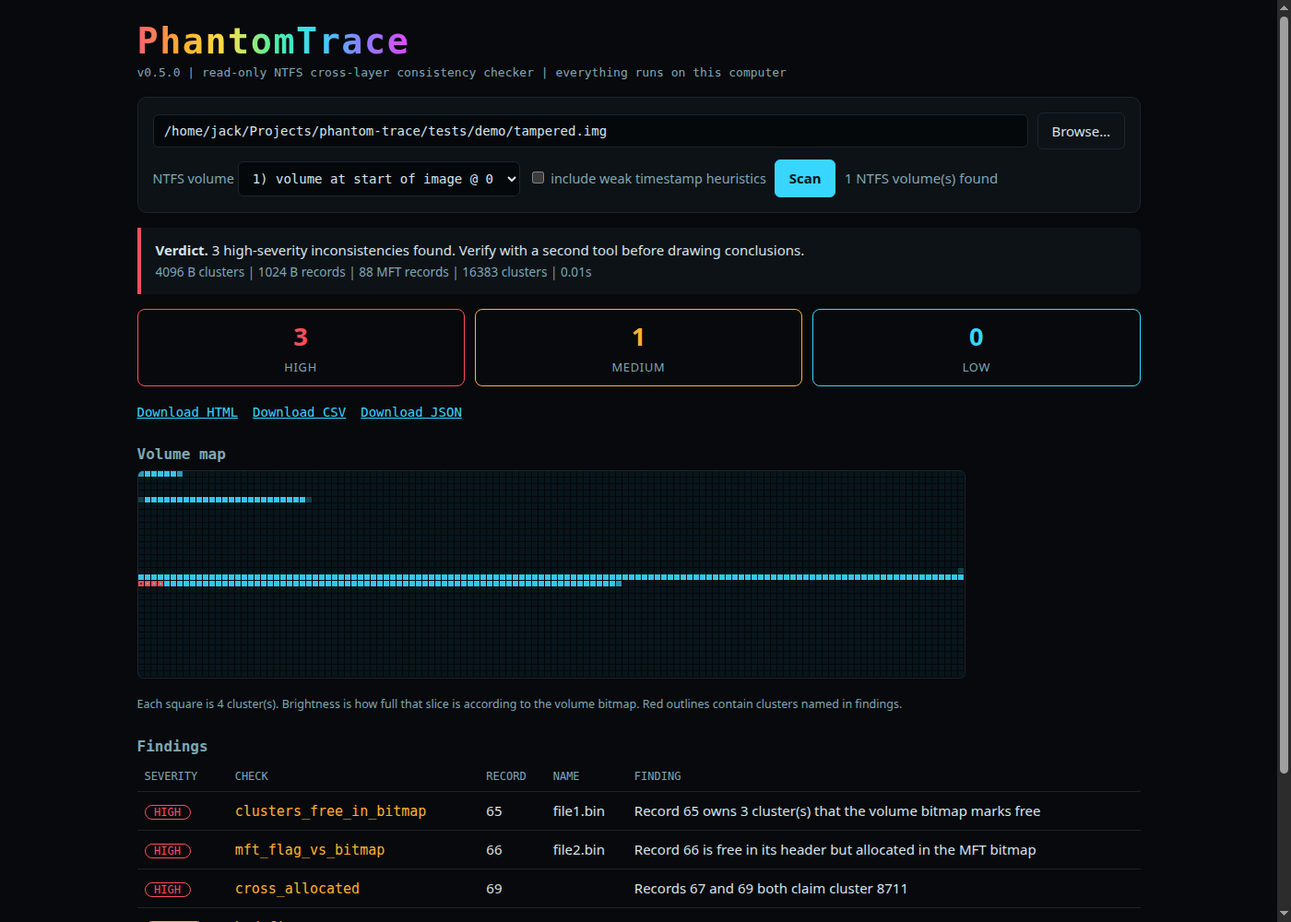
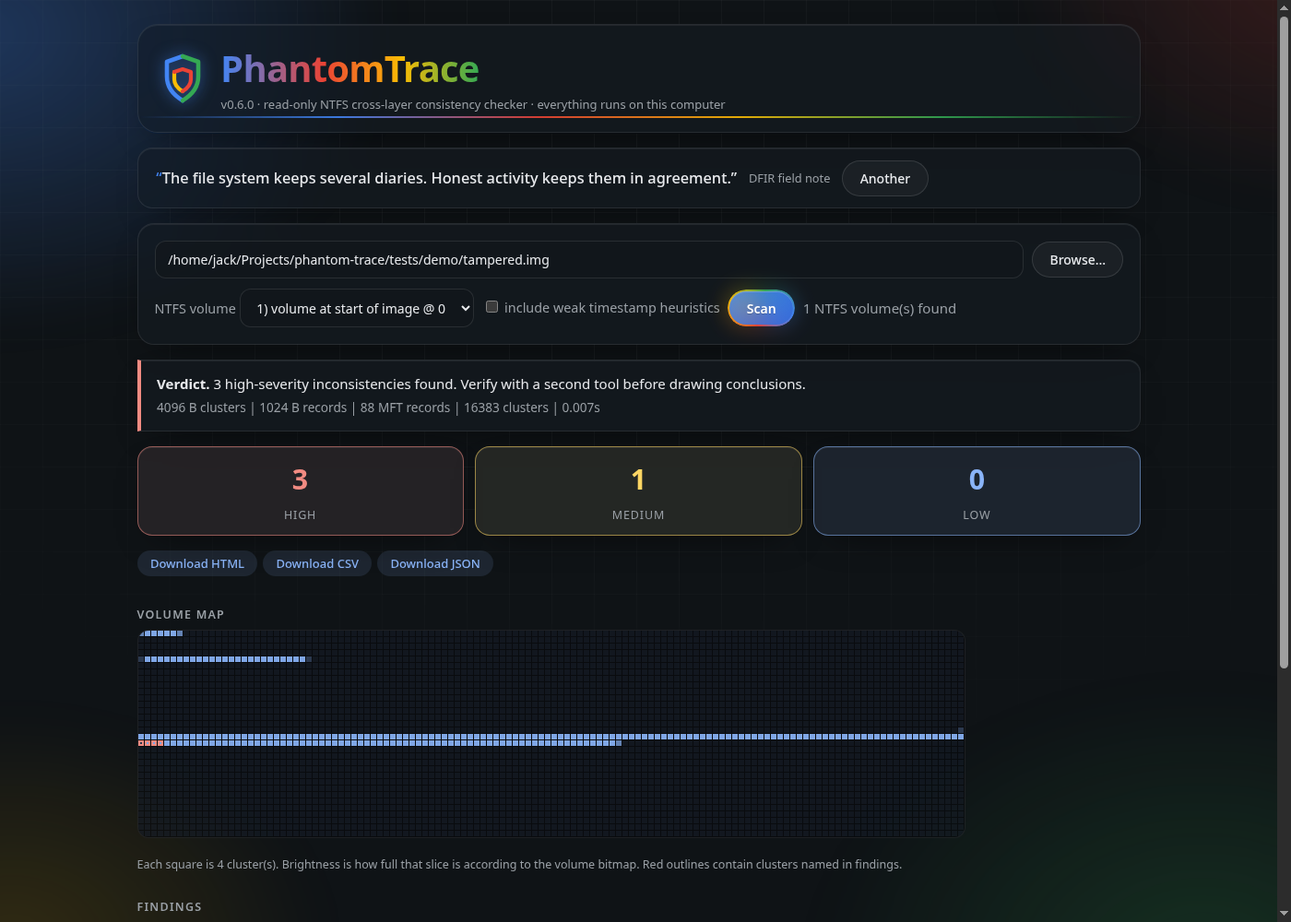
v0.6.1: new look for the GUI and HTML report

diff --git a/phantom_trace.py b/phantom_trace.py
@@ -25,7 +25,7 @@ import time
 from datetime import datetime, timedelta
 from dataclasses import dataclass, field
 
-__version__ = "0.6.0"
+__version__ = "0.6.1"
 __author__ = "Jack Sessions"
 __license__ = "MIT"
 __url__ = "https://github.com/JackSessions/PhantomTrace"
@@ -571,33 +571,88 @@ def cluster_map(fs: Ntfs, findings: list[Finding], cols: int = 128, rows: int = 
     return {"cols": cols, "per": per, "cells": n, "frac": frac, "flag": flag}
 
 
+SHIELD_SVG = ('<svg class="shield" viewBox="0 0 48 56" aria-hidden="true"><path d="M24 4 7 10v16c0 12 7 20 17 26" fill="none" stroke="#4285f4" stroke-width="4.6" stroke-linecap="round" stroke-linejoin="round"/>'
+              '<path d="M24 4l17 6v16c0 12-7 20-17 26" fill="none" stroke="#34a853" stroke-width="4.6" stroke-linecap="round" stroke-linejoin="round"/>'
+              '<path d="M24 42c-5-3-9-7-9-13V21" fill="none" stroke="#fbbc04" stroke-width="4.2" stroke-linecap="round" stroke-linejoin="round"/>'
+              '<path d="M15 21l9-3 9 3v8c0 6-4 10-9 13" fill="none" stroke="#ea4335" stroke-width="4.2" stroke-linecap="round" stroke-linejoin="round"/></svg>')
+
+# One design system for the GUI and the HTML report: frosted glass over a night-security backdrop, Google colours.
+DESIGN_CSS = r"""
+:root{color-scheme:dark;--bg:#0f1316;--panel:#171c20;--line:#2a3238;--text:#e8eaed;--mut:#9aa0a6;--soft:#bdc1c6;--cy:#8ab4f8;--am:#fdd663;--red:#f28b82;--grn:#81c995;--gb:#4285f4;--gr:#ea4335;--gy:#fbbc04;--gg:#34a853;
+--sans:"Google Sans","Product Sans","Space Grotesk",Inter,"Segoe UI",Roboto,"Helvetica Neue",system-ui,sans-serif;--mono:"JetBrains Mono","Roboto Mono",ui-monospace,SFMono-Regular,Menlo,Consolas,monospace}
+@property --ang{syntax:"<angle>";initial-value:0deg;inherits:false}
+@keyframes spin{to{--ang:360deg}}@keyframes drift{to{transform:translate3d(3%,2.5%,0) scale(1.1)}}
+@keyframes scan{0%{top:-4%;opacity:0}8%{opacity:.9}92%{opacity:.9}100%{top:104%;opacity:0}}
+@keyframes rise{from{opacity:0;transform:translateY(8px)}to{opacity:1;transform:none}}
+@keyframes shieldglow{0%,100%{filter:drop-shadow(0 0 8px rgba(66,133,244,.6))}33%{filter:drop-shadow(0 0 10px rgba(234,67,53,.55))}66%{filter:drop-shadow(0 0 10px rgba(251,188,4,.5))}}
+*{box-sizing:border-box}
+body{margin:0;background:var(--bg);color:var(--text);font:15px/1.6 var(--sans);position:relative;min-height:100vh;-webkit-font-smoothing:antialiased}
+body::before{content:"";position:fixed;inset:-18%;z-index:-2;pointer-events:none;filter:blur(24px);animation:drift 32s ease-in-out infinite alternate;
+background:radial-gradient(34% 34% at 12% 16%,rgba(66,133,244,.32),transparent 70%),radial-gradient(28% 28% at 90% 10%,rgba(234,67,53,.20),transparent 70%),radial-gradient(32% 32% at 82% 90%,rgba(52,168,83,.20),transparent 70%),radial-gradient(26% 26% at 14% 88%,rgba(251,188,4,.15),transparent 70%)}
+body::after{content:"";position:fixed;inset:0;z-index:-1;pointer-events:none;background-image:linear-gradient(rgba(255,255,255,.04) 1px,transparent 1px),linear-gradient(90deg,rgba(255,255,255,.04) 1px,transparent 1px);background-size:46px 46px;-webkit-mask-image:radial-gradient(75% 65% at 50% 25%,#000 25%,transparent 100%);mask-image:radial-gradient(75% 65% at 50% 25%,#000 25%,transparent 100%)}
+main{max-width:70rem;margin:0 auto;padding:1.6rem 1rem 3rem}
+.panel,.head,.verdict,.tile,.stat,.quote,.box{background:color-mix(in oklab,var(--panel) 58%,transparent);-webkit-backdrop-filter:blur(18px) saturate(1.5);backdrop-filter:blur(18px) saturate(1.5);border:1px solid rgba(255,255,255,.09);box-shadow:inset 0 1px 0 rgba(255,255,255,.07),0 14px 40px -22px #000c}
+.panel{border-radius:18px;padding:1.1rem;animation:rise .35s both}
+.head{position:relative;overflow:hidden;display:flex;gap:1.1rem;align-items:center;border-radius:22px;padding:1.2rem 1.5rem;margin-bottom:1rem;animation:rise .5s both}
+.head>*{position:relative;z-index:1}.head::after{content:"";position:absolute;z-index:0;left:0;right:0;height:2px;top:-4%;background:linear-gradient(90deg,transparent,#4285f4,#ea4335,#fbbc04,#34a853,transparent);animation:scan 7s linear infinite;pointer-events:none}
+.shield{width:3rem;height:3.5rem;flex:none;animation:shieldglow 6s ease-in-out infinite}
+h1{margin:0;font:700 clamp(1.7rem,4vw,2.5rem) var(--sans);letter-spacing:-.02em;background:linear-gradient(90deg,#4285f4,#ea4335 40%,#fbbc04 70%,#34a853);-webkit-background-clip:text;background-clip:text;color:transparent;display:inline-block}
+.sub,.meta{color:var(--mut);font-size:13px;margin:.15rem 0 0}.meta{font-family:var(--mono);margin:.4rem 0 1.2rem}
+.quote{margin:0 0 1rem;padding:.8rem 1.2rem;border-radius:16px;display:flex;align-items:center;gap:.8rem;flex-wrap:wrap}.quote q{font-size:1.02rem;font-weight:500;quotes:"\201C" "\201D"}.quote q::before{color:#4285f4}.quote span{color:var(--mut);font-size:.8rem}
+.row{display:flex;gap:.6rem;flex-wrap:wrap;align-items:center}.row+.row{margin-top:.7rem}
+input[type=text],select{background:color-mix(in oklab,#12171b 66%,transparent);color:var(--text);border:1px solid rgba(255,255,255,.1);border-radius:12px;padding:.6rem .85rem;font:14px/1.4 var(--sans);transition:border-color .15s,box-shadow .15s}
+input[type=text]{flex:1 1 20rem}input:focus,select:focus{outline:none;border-color:var(--cy);box-shadow:0 0 0 3px rgba(138,180,248,.22)}
+label{color:var(--mut);font-size:.9rem}
+/* rainbow glowing ring buttons */
+button{position:relative;isolation:isolate;background:rgba(255,255,255,.04);color:var(--text);border:1px solid rgba(255,255,255,.12);border-radius:999px;padding:.55rem 1.15rem;font:500 14px var(--sans);cursor:pointer;transition:background .15s,transform .06s,color .15s}
+button::before{content:"";position:absolute;inset:-2px;border-radius:inherit;padding:2px;background:conic-gradient(from var(--ang),#4285f4,#ea4335,#fbbc04,#34a853,#4285f4);-webkit-mask:linear-gradient(#000 0 0) content-box,linear-gradient(#000 0 0);-webkit-mask-composite:xor;mask-composite:exclude;opacity:0;transition:opacity .28s;animation:spin 4.5s linear infinite;pointer-events:none}
+button::after{content:"";position:absolute;inset:-5px;border-radius:inherit;background:conic-gradient(from var(--ang),#4285f4,#ea4335,#fbbc04,#34a853,#4285f4);filter:blur(11px);opacity:0;transition:opacity .28s;animation:spin 4.5s linear infinite;pointer-events:none;z-index:-1}
+button:hover,button:focus-visible{background:rgba(255,255,255,.09);outline:none}button:hover::before,button:focus-visible::before{opacity:1}button:hover::after,button:focus-visible::after{opacity:.32}button:active{transform:translateY(1px)}
+button.go{background:linear-gradient(135deg,#4285f4,#3367d6);color:#fff;border-color:transparent;font-weight:600;text-shadow:0 1px 0 #0003;box-shadow:inset 0 1px 0 #fff4}
+button.go::before{opacity:.95}button.go::after{opacity:.26}button.go:hover{background:linear-gradient(135deg,#5a95f5,#3b78e7);transform:translateY(-1px)}button.go:hover::after{opacity:.5}button:disabled{opacity:.55;cursor:default}
+.bar{height:6px;background:rgba(255,255,255,.07);border-radius:3px;overflow:hidden;margin-top:.9rem;display:none}.bar i{display:block;height:100%;width:0;background:linear-gradient(90deg,#4285f4,#ea4335,#fbbc04,#34a853);transition:width .15s}
+.verdict{border-left:4px solid var(--grn);border-radius:0 14px 14px 0;padding:.85rem 1.1rem;margin:1rem 0}.verdict.bad{border-left-color:var(--red)}.verdict.med{border-left-color:var(--am)}.verdict.low{border-left-color:var(--cy)}
+.tiles,.stats{display:flex;gap:.8rem;margin:.2rem 0 1rem}.tile,.stat{flex:1;border-radius:16px;padding:.7rem;text-align:center;border-color:color-mix(in oklab,var(--c) 55%,transparent);background:color-mix(in oklab,var(--c) 9%,color-mix(in oklab,var(--panel) 58%,transparent))}
+.tile b,.stat b{display:block;font-size:1.9rem;color:var(--c)}.tile span,.stat span{color:var(--mut);font-size:.78rem;text-transform:uppercase;letter-spacing:.07em}
+table{width:100%;border-collapse:collapse}th,td{text-align:left;padding:.6rem .55rem;border-bottom:1px solid rgba(255,255,255,.08);vertical-align:top}th{font:600 11px var(--sans);letter-spacing:.07em;color:var(--mut);text-transform:uppercase}
+tr.f{cursor:pointer;transition:background .15s}tr.f:hover{background:rgba(255,255,255,.04)}
+.chip{display:inline-block;border:1px solid var(--c);color:var(--c);border-radius:999px;padding:0 .65rem;font:600 11px var(--sans);text-transform:uppercase;letter-spacing:.05em}
+code{color:var(--am);font-family:var(--mono);font-size:.9em}.why{color:var(--mut);font-size:.85rem;margin-top:.3rem}.f .why{display:none}tr.open .why{display:block}
+canvas{display:block;max-width:100%;image-rendering:pixelated;border:1px solid rgba(255,255,255,.09);border-radius:12px;background:rgba(5,7,10,.6)}
+h2{font:600 .78rem var(--sans);letter-spacing:.1em;text-transform:uppercase;color:var(--mut);margin:1.7rem 0 .5rem}
+.err{border-left:4px solid var(--red);background:rgba(43,23,22,.7);padding:.75rem 1.1rem;border-radius:0 14px 14px 0;margin-top:1rem;display:none}
+.dl a{color:var(--cy);font:500 13px var(--sans);text-decoration:none;display:inline-block;padding:.32rem .9rem;margin:0 .35rem .35rem 0;border-radius:999px;background:rgba(138,180,248,.12)}.dl a:hover{background:rgba(138,180,248,.24)}
+small,.mut{color:var(--mut)}a{color:var(--cy)}
+#modal{position:fixed;inset:0;background:rgba(0,0,0,.65);display:none;place-items:center;z-index:9}#modal .box{width:min(42rem,94vw);max-height:80vh;display:flex;flex-direction:column;border-radius:20px;padding:1.1rem}
+#list{overflow:auto;border:1px solid rgba(255,255,255,.09);border-radius:12px;margin:.6rem 0}#list div{padding:.4rem .7rem;cursor:pointer;display:flex;justify-content:space-between;gap:1rem;font:13px var(--mono)}#list div:hover{background:rgba(255,255,255,.06)}
+footer{margin-top:2.5rem;color:var(--mut);font-size:.85rem}
+@media(max-width:40rem){.tiles,.stats{flex-direction:column}.head{padding:1rem}}
+@media(prefers-reduced-motion:reduce){*,*::before,*::after{animation:none!important;transition:none!important}}
+"""
+
+
 def report_html(info: dict, findings: list[Finding], target: str, cm: dict) -> str:
     e = html.escape
     color, msg = verdict(findings)
-    chip = {"high": "#ff4d5e", "medium": "#ffb02e", "low": "#38d6ff"}
+    chip = {"high": "#f28b82", "medium": "#fdd663", "low": "#8ab4f8"}
     rows = "".join(
         f'<tr><td><span class="chip" style="--c:{chip[f.severity]}">{f.severity}</span></td><td><code>{e(f.check)}</code></td>'
         f'<td>{"" if f.record is None else f.record}</td><td>{e(f.name)}</td><td>{e(f.message)}<div class="why">{e(WHY[f.check])}</div></td></tr>'
         for f in sorted(findings, key=lambda x: ("high", "medium", "low").index(x.severity)))
     counts = "".join(f'<div class="stat" style="--c:{chip[s]}"><b>{sum(f.severity == s for f in findings)}</b><span>{s}</span></div>' for s in ("high", "medium", "low"))
-    verdict_col = {"red": "#ff4d5e", "yellow": "#ffb02e", "cyan": "#38d6ff", "green": "#4af0a2"}[color]
+    verdict_col = {"red": "#f28b82", "yellow": "#fdd663", "cyan": "#8ab4f8", "green": "#81c995"}[color]
     return f"""<!doctype html><html lang="en"><meta charset="utf-8"><meta name="viewport" content="width=device-width,initial-scale=1">
-<title>PhantomTrace report</title><style>
-:root{{color-scheme:dark}}body{{margin:0;background:#07090c;color:#d7e3ea;font:15px/1.5 system-ui,sans-serif}}main{{max-width:64rem;margin:0 auto;padding:2rem 1rem 4rem}}
-h2{{font:600 1rem ui-monospace,monospace;color:#7fa7b5;margin:1.6rem 0 .4rem}}canvas{{display:block;max-width:100%;image-rendering:pixelated;border:1px solid #1c252d;border-radius:6px;background:#05070a}}h1{{font:700 1.6rem ui-monospace,monospace;letter-spacing:.04em;margin:0;background:linear-gradient(90deg,#ff5f6d,#ffb02e,#ffe14a,#4af0a2,#38d6ff,#8b7bff,#e04aff);-webkit-background-clip:text;background-clip:text;color:transparent;display:inline-block}}small,.why{{color:#7fa7b5}}.why{{font-size:.82rem;margin-top:.3rem}}
-.meta{{margin:.4rem 0 1.4rem;font:13px ui-monospace,monospace;color:#7fa7b5}}.verdict{{border-left:4px solid {verdict_col};padding:.7rem 1rem;background:#0c1116;margin:1rem 0}}
-.stats{{display:flex;gap:.8rem;margin:1rem 0}}.stat{{flex:1;border:1px solid var(--c);border-radius:6px;padding:.6rem;text-align:center}}.stat b{{display:block;font-size:1.6rem;color:var(--c)}}
-table{{width:100%;border-collapse:collapse;margin-top:1rem}}td,th{{text-align:left;padding:.55rem .5rem;border-bottom:1px solid #1c252d;vertical-align:top}}th{{font:12px ui-monospace,monospace;color:#7fa7b5;text-transform:uppercase}}
-.chip{{display:inline-block;border:1px solid var(--c);color:var(--c);border-radius:999px;padding:0 .6rem;font:12px ui-monospace,monospace;text-transform:uppercase}}code{{color:#ffb02e}}
-</style><main><h1>PhantomTrace</h1><div class="meta">v{__version__} | {e(target)} | {info['cluster_size']} B clusters, {info['record_size']} B records, {info['records']} MFT records, {info['clusters']} clusters</div>
+<title>PhantomTrace report</title><style>{DESIGN_CSS}.verdict{{border-left-color:{verdict_col}}}</style>
+<main><div class="head">{SHIELD_SVG}<div><h1>PhantomTrace</h1><div class="sub">Read-only NTFS cross-layer consistency report</div></div></div>
+<div class="meta">v{__version__} | {e(target)} | {info['cluster_size']} B clusters, {info['record_size']} B records, {info['records']} MFT records, {info['clusters']} clusters</div>
 <div class="verdict"><b>Verdict.</b> {e(msg)}</div><div class="stats">{counts}</div>
 <h2>Volume map</h2><canvas id="map" height="10"></canvas>
 <p><small>Each square is a slice of the volume (<span id="per"></span> clusters). Brightness is how full that slice is according to the volume bitmap. Red outlines contain clusters named in findings.</small></p>
-<table><tr><th>Severity</th><th>Check</th><th>Record</th><th>Name</th><th>Finding</th></tr>{rows or '<tr><td colspan="5">No findings.</td></tr>'}</table>
+<h2>Findings</h2><table><tr><th>Severity</th><th>Check</th><th>Record</th><th>Name</th><th>Finding</th></tr>{rows or '<tr><td colspan="5">No findings.</td></tr>'}</table>
 <script>const M={json.dumps(cm)};const cv=document.getElementById('map'),cols=M.cols,sz=Math.floor(Math.min(1000,document.querySelector('main').clientWidth)/cols),rows=Math.ceil(M.cells/cols);
 cv.width=sz*cols;cv.height=sz*rows;const g=cv.getContext('2d');document.getElementById('per').textContent=M.per;
-for(let i=0;i<M.cells;i++){{const x=(i%cols)*sz,y=Math.floor(i/cols)*sz,f=M.frac[i]/100;g.fillStyle=`rgba(56,214,255,${{(0.07+0.85*f).toFixed(2)}})`;g.fillRect(x,y,sz-1,sz-1);if(M.flag[i]){{g.strokeStyle='#ff4d5e';g.lineWidth=2;g.strokeRect(x+1,y+1,sz-3,sz-3);}}}}</script>
-<p><small>Created by <a href="{__url__}" style="color:#38d6ff">Jack Sessions</a> (PhantomTrace v{__version__}, MIT licence). Findings are leads, not proof. Confirm with a second tool (for example The Sleuth Kit) before drawing conclusions.</small></p></main></html>"""
+for(let i=0;i<M.cells;i++){{const x=(i%cols)*sz,y=Math.floor(i/cols)*sz,f=M.frac[i]/100;g.fillStyle=`rgba(138,180,248,${{(0.07+0.85*f).toFixed(2)}})`;g.fillRect(x,y,sz-1,sz-1);if(M.flag[i]){{g.strokeStyle='#f28b82';g.lineWidth=2;g.strokeRect(x+1,y+1,sz-3,sz-3);}}}}</script>
+<footer>Created by <a href="{__url__}">Jack Sessions</a> (PhantomTrace v{__version__}, MIT licence). Findings are leads, not proof. Confirm with a second tool (for example The Sleuth Kit) before drawing conclusions.</footer></main></html>"""
 
 
 def main(argv=None) -> int:

diff --git a/phantom_trace_gui.py b/phantom_trace_gui.py
@@ -96,7 +96,7 @@ class Handler(BaseHTTPRequestHandler):
         if not self._guard(q):
             return
         if u.path == "/":
-            self._send(200, PAGE.replace("__VERSION__", pt.__version__).encode(), "text/html; charset=utf-8")
+            self._send(200, PAGE.replace("__DESIGN__", pt.DESIGN_CSS).replace("__SHIELD__", pt.SHIELD_SVG).replace("__VERSION__", pt.__version__).encode(), "text/html; charset=utf-8")
         elif u.path == "/api/ls":
             self._ls((q.get("path") or [""])[0])
         elif u.path == "/api/volumes":
@@ -206,35 +206,10 @@ def main(argv=None) -> int:
 
 PAGE = r"""<!doctype html><html lang="en"><meta charset="utf-8"><meta name="viewport" content="width=device-width,initial-scale=1">
 <title>PhantomTrace</title>
-<style>
-:root{color-scheme:dark;--bg:#07090c;--panel:#0d1217;--line:#1c252d;--text:#d7e3ea;--mut:#7fa7b5;--cy:#38d6ff;--am:#ffb02e;--red:#ff4d5e;--grn:#4af0a2}
-*{box-sizing:border-box}body{margin:0;background:var(--bg);color:var(--text);font:15px/1.5 system-ui,sans-serif}
-main{max-width:70rem;margin:0 auto;padding:1.4rem 1rem 3rem}
-h1{margin:0;font:800 clamp(1.6rem,4vw,2.4rem) ui-monospace,monospace;letter-spacing:.04em;background:linear-gradient(90deg,#ff5f6d,#ffb02e,#ffe14a,#4af0a2,#38d6ff,#8b7bff,#e04aff);-webkit-background-clip:text;background-clip:text;color:transparent;display:inline-block}
-.sub{color:var(--mut);font:13px ui-monospace,monospace;margin:.2rem 0 1.2rem}
-.panel{background:var(--panel);border:1px solid var(--line);border-radius:10px;padding:1rem}
-.row{display:flex;gap:.6rem;flex-wrap:wrap;align-items:center}.row+.row{margin-top:.7rem}
-input[type=text],select{background:#05080b;color:var(--text);border:1px solid var(--line);border-radius:6px;padding:.55rem .7rem;font:14px ui-monospace,monospace}
-input[type=text]{flex:1 1 20rem}
-button{background:transparent;color:var(--text);border:1px solid var(--line);border-radius:6px;padding:.5rem .9rem;font:inherit;cursor:pointer}
-button:hover{border-color:var(--cy);color:var(--cy)}button.go{background:var(--cy);color:#03141a;border-color:var(--cy);font-weight:700}button.go:hover{color:#03141a;filter:brightness(1.1)}button:disabled{opacity:.5;cursor:default}
-label{color:var(--mut);font-size:.9rem}
-.bar{height:6px;background:#10181e;border-radius:3px;overflow:hidden;margin-top:.8rem;display:none}.bar i{display:block;height:100%;width:0;background:linear-gradient(90deg,#ff5f6d,#ffb02e,#4af0a2,#38d6ff,#e04aff);transition:width .15s}
-.verdict{border-left:4px solid var(--grn);background:var(--panel);padding:.8rem 1rem;margin:1rem 0;border-radius:0 8px 8px 0}.verdict.bad{border-color:var(--red)}.verdict.med{border-color:var(--am)}.verdict.low{border-color:var(--cy)}
-.tiles{display:flex;gap:.7rem;margin:.2rem 0 1rem}.tile{flex:1;border:1px solid var(--c);border-radius:8px;padding:.6rem;text-align:center}.tile b{display:block;font-size:1.7rem;color:var(--c)}.tile span{color:var(--mut);font-size:.8rem;text-transform:uppercase;letter-spacing:.06em}
-table{width:100%;border-collapse:collapse}th,td{text-align:left;padding:.55rem .5rem;border-bottom:1px solid var(--line);vertical-align:top}th{font:12px ui-monospace,monospace;color:var(--mut);text-transform:uppercase}
-tr.f{cursor:pointer}tr.f:hover{background:#0b1218}.chip{display:inline-block;border:1px solid var(--c);color:var(--c);border-radius:999px;padding:0 .6rem;font:12px ui-monospace,monospace;text-transform:uppercase}
-code{color:var(--am)}.why{color:var(--mut);font-size:.85rem;margin-top:.3rem;display:none}tr.open .why{display:block}
-canvas{display:block;max-width:100%;image-rendering:pixelated;border:1px solid var(--line);border-radius:6px;background:#05070a}
-h2{font:600 1rem ui-monospace,monospace;color:var(--mut);margin:1.6rem 0 .5rem}
-.err{border-left:4px solid var(--red);background:#1a0c10;padding:.7rem 1rem;border-radius:0 8px 8px 0;margin-top:1rem;display:none}
-.dl a{color:var(--cy);margin-right:1rem;font:14px ui-monospace,monospace}small,.mut{color:var(--mut)}
-#modal{position:fixed;inset:0;background:rgba(0,0,0,.7);display:none;place-items:center;z-index:9}#modal .box{width:min(42rem,94vw);max-height:80vh;display:flex;flex-direction:column}
-#list{overflow:auto;border:1px solid var(--line);border-radius:6px;margin:.6rem 0}#list div{padding:.35rem .6rem;cursor:pointer;display:flex;justify-content:space-between;gap:1rem;font:13px ui-monospace,monospace}#list div:hover{background:#0b1218}
-footer{margin-top:2.5rem;color:var(--mut);font-size:.85rem}footer a{color:var(--cy)}
-</style>
+<style>__DESIGN__</style>
 <main>
-<h1>PhantomTrace</h1><div class="sub">v__VERSION__ | read-only NTFS cross-layer consistency checker | everything runs on this computer</div>
+<div class="head">__SHIELD__<div><h1>PhantomTrace</h1><div class="sub">v__VERSION__ &middot; read-only NTFS cross-layer consistency checker &middot; everything runs on this computer</div></div></div>
+<div class="quote"><q id="qt"></q><span>DFIR field note</span><button id="qn" title="Another one">Another</button></div>
 <div class="panel">
   <div class="row"><input id="path" type="text" placeholder="Path to a raw NTFS image, disk image or device (e.g. /home/you/disk.img or \\.\C:)" spellcheck="false"><button id="browse">Browse…</button></div>
   <div class="row"><label>NTFS volume <select id="part"><option value="1">auto</option></select></label>
@@ -258,7 +233,8 @@ footer{margin-top:2.5rem;color:var(--mut);font-size:.85rem}footer a{color:var(--
 <script>
 const Q=new URLSearchParams(location.search),TOKEN=Q.get('token'),$=id=>document.getElementById(id),H={'X-PT-Token':TOKEN};
 const api=(u,o={})=>fetch(u,{...o,headers:{...H,...(o.headers||{})}}).then(r=>r.json());
-const COL={high:'#ff4d5e',medium:'#ffb02e',low:'#38d6ff'};let job=null,timer=null;
+const COL={high:'#f28b82',medium:'#fdd663',low:'#8ab4f8'};
+const QUOTES=['The file system keeps several diaries. Honest activity keeps them in agreement.','Free space is not always empty.','A deleted record is a story, not an absence.','Trust the layers that agree. Question the ones that do not.','Read-only first, always.','A finding is a lead. A second tool makes it a fact.','Structure is harder to fake than a timestamp.','Image first, analyse the copy.','Calm minds read better disks.','Every inconsistency has a cause. Find it before you name it.'];let qi=-1;function newQuote(){let i;do{i=Math.floor(Math.random()*QUOTES.length)}while(i===qi);qi=i;$('qt').textContent=QUOTES[i]}$('qn').onclick=newQuote;newQuote();let job=null,timer=null;
 const esc=s=>String(s).replace(/[&<>"]/g,c=>({'&':'&amp;','<':'&lt;','>':'&gt;','"':'&quot;'}[c]));
 async function volumes(){const p=$('path').value.trim();const sel=$('part');sel.innerHTML='<option value="1">auto</option>';if(!p)return;
   const r=await api('/api/volumes?path='+encodeURIComponent(p));
@@ -286,7 +262,7 @@ function render(s){const f=s.findings,n={high:0,medium:0,low:0};f.forEach(x=>n[x
   document.querySelectorAll('tr.f').forEach(r=>r.onclick=()=>r.classList.toggle('open'));
   $('out').style.display='block';
   const M=s.cmap,cv=$('map');if(M&&M.cells){const cols=M.cols,sz=Math.max(3,Math.floor(Math.min(1000,cv.parentElement.clientWidth)/cols)),rws=Math.ceil(M.cells/cols);cv.width=sz*cols;cv.height=sz*rws;const g=cv.getContext('2d');
-    for(let i=0;i<M.cells;i++){const x=(i%cols)*sz,y=Math.floor(i/cols)*sz;g.fillStyle=`rgba(56,214,255,${(0.07+0.85*M.frac[i]/100).toFixed(2)})`;g.fillRect(x,y,sz-1,sz-1);if(M.flag[i]){g.strokeStyle='#ff4d5e';g.lineWidth=2;g.strokeRect(x+1,y+1,sz-3,sz-3)}}
+    for(let i=0;i<M.cells;i++){const x=(i%cols)*sz,y=Math.floor(i/cols)*sz;g.fillStyle=`rgba(138,180,248,${(0.07+0.85*M.frac[i]/100).toFixed(2)})`;g.fillRect(x,y,sz-1,sz-1);if(M.flag[i]){g.strokeStyle='#f28b82';g.lineWidth=2;g.strokeRect(x+1,y+1,sz-3,sz-3)}}
     $('mapnote').textContent=`Each square is ${M.per} cluster(s). Brightness is how full that slice is according to the volume bitmap. Red outlines contain clusters named in findings.`}
 }
 let cwd='';async function ls(p){const r=await api('/api/ls?path='+encodeURIComponent(p||''));cwd=r.path;$('cwd').textContent=r.path;

diff --git a/tests/test_phantom_trace.py b/tests/test_phantom_trace.py
@@ -233,3 +233,35 @@ class RunListTests(unittest.TestCase):
 
 if __name__ == "__main__":
     unittest.main()
+
+
+class DesignTests(unittest.TestCase):
+    """The GUI and the HTML report share one design system; these tests need no NTFS tools."""
+
+    def test_report_uses_the_shared_design_and_google_colours(self):
+        import phantom_trace as pt
+        info = {"cluster_size": 4096, "record_size": 1024, "records": 1, "clusters": 1}
+        cm = {"cols": 1, "cells": 1, "frac": [0], "flag": [0], "per": 1}
+        f = pt.Finding("mft_flag_vs_bitmap", "high", 1, "a.txt", "x") if hasattr(pt, "Finding") else None
+        page = pt.report_html(info, [f] if f else [], "x.img", cm)
+        self.assertIn('class="shield"', page)
+        self.assertIn("backdrop-filter", page)
+        self.assertIn("#f28b82", page if f else pt.DESIGN_CSS + "#f28b82")
+        self.assertNotIn("__DESIGN__", page)
+
+    def test_gui_page_is_served_with_design_and_no_placeholders(self):
+        import threading
+        import urllib.request
+        import phantom_trace_gui as gui
+        httpd, token = gui.make_server(0)
+        threading.Thread(target=httpd.serve_forever, daemon=True).start()
+        try:
+            req = urllib.request.Request(f"http://127.0.0.1:{httpd.server_address[1]}/?token={token}")
+            body = urllib.request.urlopen(req).read().decode()
+        finally:
+            httpd.shutdown()
+            httpd.server_close()
+        for must in ('class="shield"', "conic-gradient", "backdrop-filter", 'id="qt"', "prefers-reduced-motion"):
+            self.assertIn(must, body)
+        for gone in ("__DESIGN__", "__SHIELD__", "__VERSION__"):
+            self.assertNotIn(gone, body)

diff --git a/docs/releases/v0.6.1.md b/docs/releases/v0.6.1.md
@@ -1,0 +1,39 @@
+## PhantomTrace v0.6.1: the new look
+
+**A read-only NTFS consistency checker for DFIR.** NTFS describes the same disk in several places. Honest activity keeps those descriptions in agreement; tampering (and corruption) often doesn't. PhantomTrace reads a raw image or device, never writes to it, and reports where the layers disagree.
+
+```bash
+pipx install phantom-trace-ntfs
+phantom-trace --gui                    # point-and-click, in your browser
+phantom-trace disk.img --html report.html
+```
+
+### What's new
+
+- **A new look** for the GUI and the HTML report: frosted glass over a night-security backdrop, Google colours, a four-colour shield, glowing rainbow-ring buttons, a DFIR field note, and a clickable findings table with a volume map. It respects the reduced-motion setting.
+- Package name, commands and checks are unchanged (`phantom-trace-ntfs`, `phantom-trace`, `phantom-trace-gui`). 0.6.0 on PyPI has the same checks with the earlier plain look, so upgrade with `pipx upgrade phantom-trace-ntfs`.
+
+### What it checks
+
+| Check | Compares | Why it matters |
+|---|---|---|
+| `mft_flag_vs_bitmap` | A record's "in use" flag vs the `$MFT` record bitmap | Hidden or resurrected entries, edited MFT, crash damage |
+| `clusters_free_in_bitmap` | Clusters a file's runs claim vs the volume `$Bitmap` | Bitmap altered to hide data, or corruption |
+| `cross_allocated` | Two records claiming the same cluster | Manual run-list edits or serious damage |
+| `run_out_of_bounds` | A data run outside the volume | Invalid or forged run list |
+| `bad_fixup` | MFT update-sequence verification | Torn, corrupt or hand-edited records |
+| `mirror_mismatch` | First MFT records vs `$MFTMirr` (low confidence) | Worth a look; crashes can cause it too |
+
+Plus optional, weaker timestamp checks (`--heuristics`). Exit codes: `0` clean, `1` findings, `2` error.
+
+### Honest limits
+
+- It reports **inconsistencies, not proof**. They can come from tampering, corruption or a live system that was still writing. Verify with a second tool (The Sleuth Kit, MFTECmd) before drawing conclusions.
+- The test suite builds real NTFS volumes with the `ntfs-3g` tools, tampers with them on purpose, and checks that clean volumes stay quiet. Volumes formatted and used by Windows, and real-world anti-forensic tools, are not yet covered. If you hit a false positive or a miss, please open an issue: those reports are the most valuable.
+- Fragmented `$MFT` with an `$ATTRIBUTE_LIST`, compressed streams, `$LogFile` and `$UsnJrnl` analysis are not implemented yet.
+
+### Credit
+
+Created by **Jack Sessions**. MIT licence. Parts of the code were written with AI assistance (Claude); every check is covered by tests, and findings are leads to verify.
+
+Full details: [README](https://github.com/JackSessions/PhantomTrace#readme) · [CHANGELOG](https://github.com/JackSessions/PhantomTrace/blob/main/CHANGELOG.md) · [PyPI](https://pypi.org/project/phantom-trace-ntfs/)

diff --git a/docs/releases/v0.6.0.md b/docs/releases/v0.6.0.md
@@ -1,0 +1,40 @@
+## PhantomTrace v0.6.0: first release on PyPI
+
+**A read-only NTFS consistency checker for DFIR.** NTFS describes the same disk in several places. Honest activity keeps those descriptions in agreement; tampering (and corruption) often doesn't. PhantomTrace reads a raw image or device, never writes to it, and reports where the layers disagree.
+
+```bash
+pipx install phantom-trace-ntfs
+phantom-trace --gui                    # point-and-click, in your browser
+phantom-trace disk.img --html report.html
+```
+
+### What's new
+
+- **Now on PyPI** as `phantom-trace-ntfs` (the commands are still `phantom-trace` and `phantom-trace-gui`).
+- **A proper README:** why you would use it, what it is *not*, install, usage, checks and known limitations.
+- `SECURITY.md`, `CONTRIBUTING.md`, issue templates (including a *false positive* report), a changelog and a release guide.
+
+### What it checks
+
+| Check | Compares | Why it matters |
+|---|---|---|
+| `mft_flag_vs_bitmap` | A record's "in use" flag vs the `$MFT` record bitmap | Hidden or resurrected entries, edited MFT, crash damage |
+| `clusters_free_in_bitmap` | Clusters a file's runs claim vs the volume `$Bitmap` | Bitmap altered to hide data, or corruption |
+| `cross_allocated` | Two records claiming the same cluster | Manual run-list edits or serious damage |
+| `run_out_of_bounds` | A data run outside the volume | Invalid or forged run list |
+| `bad_fixup` | MFT update-sequence verification | Torn, corrupt or hand-edited records |
+| `mirror_mismatch` | First MFT records vs `$MFTMirr` (low confidence) | Worth a look; crashes can cause it too |
+
+Plus optional, weaker timestamp checks (`--heuristics`). Exit codes: `0` clean, `1` findings, `2` error.
+
+### Honest limits
+
+- It reports **inconsistencies, not proof**. They can come from tampering, corruption or a live system that was still writing. Verify with a second tool (The Sleuth Kit, MFTECmd) before drawing conclusions.
+- The test suite builds real NTFS volumes with the `ntfs-3g` tools, tampers with them on purpose, and checks that clean volumes stay quiet. Volumes formatted and used by Windows, and real-world anti-forensic tools, are not yet covered. If you hit a false positive or a miss, please open an issue: those reports are the most valuable.
+- Fragmented `$MFT` with an `$ATTRIBUTE_LIST`, compressed streams, `$LogFile` and `$UsnJrnl` analysis are not implemented yet.
+
+### Credit
+
+Created by **Jack Sessions**. MIT licence. Parts of the code were written with AI assistance (Claude); every check is covered by tests, and findings are leads to verify.
+
+Full details: [README](https://github.com/JackSessions/PhantomTrace#readme) · [CHANGELOG](https://github.com/JackSessions/PhantomTrace/blob/main/CHANGELOG.md) · [PyPI](https://pypi.org/project/phantom-trace-ntfs/)

diff --git a/README.md b/README.md
@@ -17,7 +17,7 @@ NTFS describes the same disk in several places. Honest activity keeps those desc
  | _ \ |_  __ _ _ _  __| |_ ___ _ __   |_   _| _ __ _ __ ___
  |  _/ ' \/ _` | ' \/ _|  _/ _ \ '  \    | || '_/ _` / _/ -_)
  |_| |_||_\__,_|_||_\__|\__\___/_|_|_|   |_||_| \__,_\__\___|
-  v0.6.0  |  read-only NTFS cross-layer consistency checker
+  v0.6.1  |  read-only NTFS cross-layer consistency checker
 
   Target  tests/demo/tampered.img
   Volume  4096 B clusters | 1024 B MFT records | 88 records | 16383 clusters
@@ -56,6 +56,14 @@ Most NTFS tools show you what the file system *says*. PhantomTrace checks whethe
 
 What it is **not**: a replacement for The Sleuth Kit, MFTECmd or an examiner. It reports *inconsistencies*, which can come from tampering, corruption or a live system that was still writing. Every finding is a lead to verify with a second tool, not proof.
 
+## What you get
+
+- **Six cross-layer checks** (plus optional timestamp heuristics) that compare the MFT, the cluster bitmap, run lists, update-sequence arrays and `$MFTMirr`. See [Checks](#checks).
+- **A point-and-click GUI** in your browser: frosted-glass night-security look in Google colours, glowing rainbow-ring buttons, a built-in file browser and a clickable findings table.
+- **A shareable HTML report** with a volume map, plus CSV and JSON for scripts and timelines.
+- **Strictly read-only.** It never writes to the image or device. Standard library only, Python 3.9+, Windows, macOS and Linux.
+- **Script-friendly:** `-q` for a one-line verdict and exit codes `0` clean, `1` findings, `2` error.
+
 ## Install
 
 ```
@@ -68,6 +76,8 @@ python3 phantom_trace.py image.img
 ## Point-and-click GUI
 
 ![PhantomTrace GUI](https://raw.githubusercontent.com/JackSessions/PhantomTrace/main/docs/gui.png)
+
+*The GUI scanning the tampered demo image: three high-severity findings, a volume map with the affected clusters outlined in red, and a DFIR field note.*
 
 ```
 phantom-trace --gui          # or: phantom-trace-gui   (and optionally an image path to scan straight away)

diff --git a/CHANGELOG.md b/CHANGELOG.md
@@ -1,5 +1,9 @@
 # Changelog
 
+## 0.6.1
+- **New look** for the GUI and the HTML report: frosted glass over a night-security backdrop, Google colours, a four-colour shield, glowing rainbow-ring buttons, a DFIR field note, and reduced-motion support. One shared design in `phantom_trace.py`.
+- Fixes a release-ordering slip: 0.6.0 on PyPI was built before the new look was committed, so 0.6.1 is the first version with it.
+
 ## 0.6.0
 - First PyPI release (`pipx install phantom-trace-ntfs`).
 - README: "why would anyone use this", GUI screenshot, install and PyPI badges. Added `SECURITY.md`, `CONTRIBUTING.md`, issue templates (including a false-positive report) and `docs/RELEASING.md`.
